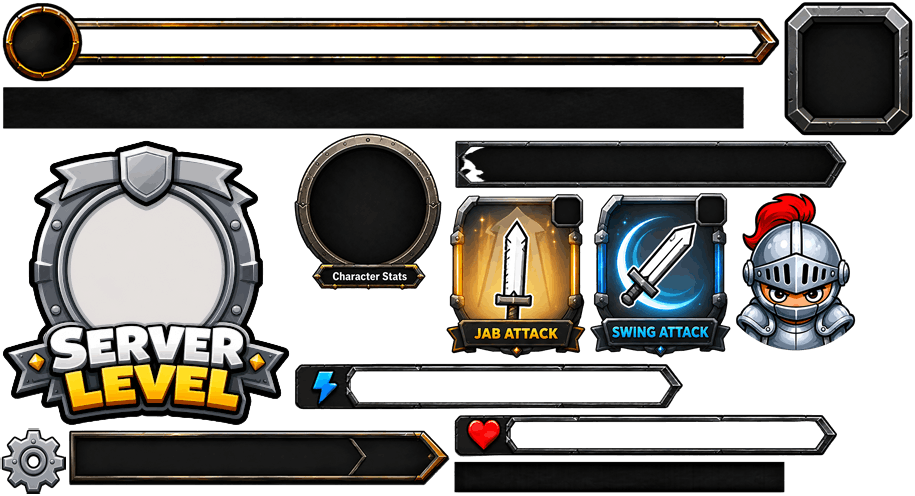
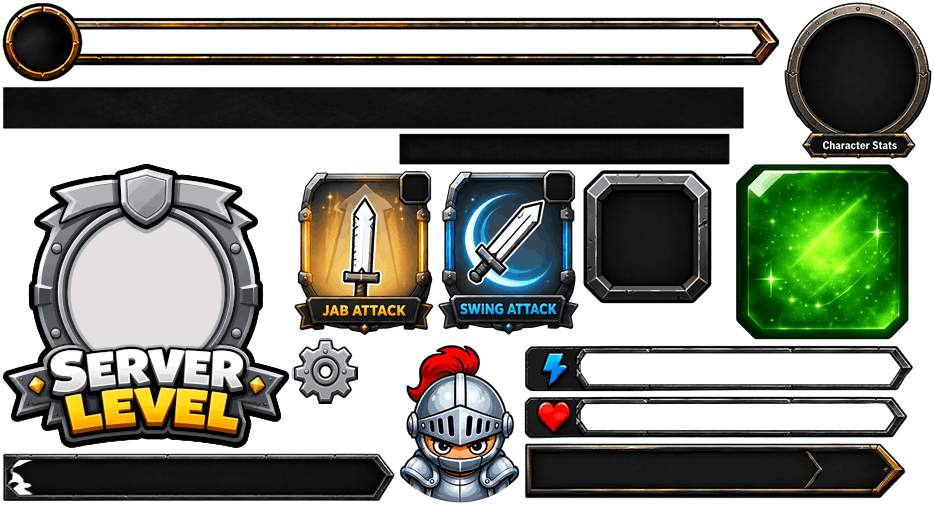
Visual polish: breathing pulse, idle sway, movement bob, head lean twist, aim smoothing
- #1: Subtle breathing pulse (1.5% scale oscillation at 3.5s period on knight head)
- #2: Gentle idle sway on sword and hand (rotational + positional sine offsets)
- #3: Movement-based bob (figure-8 path, amplitude scales with speed, fades at rest)
- #4: Direction-change head lean twist (character-local perpendicular pull on head rotation)
- #5: Visual aim smoothing (eased facing direction via client-owned visualAngle,
  instant realAngle for attacks/input)
- Perpendicular pull removed from aim, applied only as head rotation offset
- Fixed || vs ?? bug causing jitter when visualAngle crossed 0
- Removed obsolete phaseDisplay HTML/CSS/JS
- Breathing/sway/bob: purely visual, no gameplay impact

diff --git a/public/holdyourground/modules/render-entity.js b/public/holdyourground/modules/render-entity.js
@@ -2,8 +2,26 @@ import { state } from './state.js';
 
 const _spriteCache = new Map();
 
+let _leanRot = 0;
+
+function updateLean(p) {
+  if (!p) return;
+  const vx = p.x - p.px;
+  const vy = p.y - p.py;
+  const aim = p._smoothAngle ?? p.facingAngle ?? 0;
+  const localRight = -vx * Math.sin(aim) + vy * Math.cos(aim);
+  const targetLean = localRight * 0.04;
+  _leanRot += (targetLean - _leanRot) * 0.12;
+  if (Math.abs(_leanRot) < 0.0001) _leanRot = 0;
+}
+
 function smoothstep(t) {
   return t * t * (3 - 2 * t);
+}
+
+function getBreathScale(amp) {
+  const t = performance.now() / 3500 * Math.PI * 2;
+  return 1.0 + Math.sin(t) * (amp || 0.015);
 }
 
 function toPolar(x, y) {
@@ -32,6 +50,32 @@ function lerpPosePolar(from, to, t) {
   };
 }
 
+function getMovementBob(p) {
+  if (!p) return { x: 0, y: 0 };
+  const dx = p.x - p.px;
+  const dy = p.y - p.py;
+  const speed = Math.sqrt(dx * dx + dy * dy);
+  const t = performance.now() / 1000;
+  const freq = 1.2 + speed * 0.08;
+  const amp = Math.min(1.5, speed * 0.08);
+  return {
+    x: Math.cos(t * freq * Math.PI * 2) * amp * 0.4,
+    y: Math.sin(t * freq * Math.PI * 2) * amp * 0.6
+  };
+}
+
+function getIdleSway(handKey) {
+  const t = performance.now() / 1000;
+  const isSword = handKey === 'knight_sword';
+  const freq1 = isSword ? 0.35 : 0.4;
+  const freq2 = isSword ? 0.5 : 0.55;
+  return {
+    rotOffset: Math.sin(t * freq1 * Math.PI * 2) * (isSword ? 0.025 : 0.015),
+    xOffset: Math.sin(t * freq2 * Math.PI * 2) * (isSword ? 1.2 : 0.6),
+    yOffset: Math.sin(t * freq1 * Math.PI * 2 + 1.2) * (isSword ? 0.8 : 0.4)
+  };
+}
+
 function getKnightIdleVis(handKey) {
   if (state.idleTransition) {
     const elapsed = performance.now() - state.idleTransition.startTime;
@@ -41,10 +85,24 @@ function getKnightIdleVis(handKey) {
     const to = handKey === 'knight_sword' ? state.idleTransition.toSword : state.idleTransition.toHand;
     const vis = lerpPosePolar(from, to, t);
     if (t >= 1) state.idleTransition = null;
-    return vis;
+    const sway = getIdleSway(handKey);
+    return {
+      offsetX: vis.offsetX + sway.xOffset,
+      offsetY: vis.offsetY + sway.yOffset,
+      scale: vis.scale,
+      rotation: +(vis.rotation + sway.rotOffset).toFixed(2)
+    };
   }
   const style = state.attackStyle || 'jab';
-  return window.KNIGHT_VISUALS?.[style]?.[handKey];
+  const base = window.KNIGHT_VISUALS?.[style]?.[handKey];
+  if (!base) return null;
+  const sway = getIdleSway(handKey);
+  return {
+    offsetX: base.offsetX + sway.xOffset,
+    offsetY: base.offsetY + sway.yOffset,
+    scale: base.scale,
+    rotation: +(base.rotation + sway.rotOffset).toFixed(2)
+  };
 }
 
 function startIdleTransition(newStyle) {
@@ -412,10 +470,12 @@ export function drawKnightPreview(ctx, cw, ch) {
 export function drawPlayer(ctx, p, sx, sy, alpha, topKills) {
   const knightFrame = state.knightFrames?.['T1KnightHead.png']?.frame;
   const isKnight = !!knightFrame;
+  const bob = getMovementBob(p);
+  updateLean(p);
 
   if (knightFrame) {
-    drawKnightSword(ctx, p, sx, sy);
-    drawKnightHand(ctx, p, sx, sy);
+    drawKnightSword(ctx, p, sx + bob.x, sy + bob.y);
+    drawKnightHand(ctx, p, sx + bob.x, sy + bob.y);
   } else {
     drawSword(ctx, p, sx, sy);
   }
@@ -424,10 +484,11 @@ export function drawPlayer(ctx, p, sx, sy, alpha, topKills) {
   drawHealthBar(ctx, sx, sy - 36, 36, 4, p.health, p.maxHealth);
 
   if (knightFrame) {
-    const sz = 56 / Math.max(knightFrame.w, knightFrame.h);
+    const breath = getBreathScale(0.015);
+    const sz = (56 / Math.max(knightFrame.w, knightFrame.h)) * breath;
     ctx.save();
-    ctx.translate(sx, sy);
-    ctx.rotate((p._smoothAngle ?? p.facingAngle) - Math.PI / 2);
+    ctx.translate(sx + bob.x, sy + bob.y);
+    ctx.rotate((p._smoothAngle ?? p.facingAngle) - Math.PI / 2 + _leanRot);
     ctx.drawImage(getSpriteFromSheet(state.knightSheet, knightFrame.w * sz, knightFrame.h * sz, knightFrame), -(knightFrame.w * sz) / 2, -(knightFrame.h * sz) / 2, knightFrame.w * sz, knightFrame.h * sz);
     ctx.restore();
   } else {

diff --git a/public/hud-position-tool.html b/public/hud-position-tool.html
@@ -204,11 +204,13 @@ Promise.all([
     };
   });
   selectedIdx = items.length > 0 ? 0 : -1;
+  // Remove standalone Activated.png — we use JabHighlight/SwingHighlight instead
+  items = items.filter(i => i.name !== 'Activated.png');
   // Add virtual elements from layout that aren't in HUD frames
   for (const laid of layoutArr) {
     if (!hudFrames[laid.name] && !items.find(i => i.name === laid.name)) {
       items.push({
-        name: laid.name, x: laid.x, y: laid.y, w: 80, h: 30,
+        name: laid.name, x: laid.x, y: laid.y, w: laid.w || 80, h: laid.h || 30,
         zIndex: laid.zIndex, visible: true, scale: 1.0,
         textX: laid.textX, textY: laid.textY, textSize: laid.textSize, frame: null
       });
@@ -399,12 +401,36 @@ function render() {
     const idx = items.indexOf(item);
     const frame = item.frame;
     if (!frame || !hudSheet.complete) {
-      if (item.name !== 'StatsHotkey') continue;
+      if (item.name !== 'StatsHotkey' && item.name !== 'JabHighlight' && item.name !== 'SwingHighlight') continue;
     }
 
     ctx.save();
 
     const sw = item.w * item.scale, sh = item.h * item.scale;
+
+    // Attack style highlight (anchored to the matching attack icon)
+    if (item.name === 'JabHighlight' || item.name === 'SwingHighlight') {
+      const actFrame = hudFrames?.['Activated.png']?.frame;
+      const iconName = item.name === 'JabHighlight' ? 'JabAttack.png' : 'SwingAttack.png';
+      const icon = items.find(i => i.name === iconName);
+      if (actFrame && hudSheet.complete && icon && icon.frame) {
+        const fr = icon.frame.frame;
+        const sss = icon.frame.spriteSourceSize;
+        const dw = sss.w * icon.scale;
+        const dh = sss.h * icon.scale;
+        const r = 1024 - (icon.x + sss.x * icon.scale) - sss.w * icon.scale;
+        const b = 576 - (icon.y + sss.y * icon.scale) - sss.h * icon.scale;
+        const dx = 1024 - r - dw;
+        const dy = 576 - b - dh;
+        ctx.drawImage(hudSheet, actFrame.x, actFrame.y, actFrame.w, actFrame.h, dx, dy, dw, dh);
+      }
+      ctx.fillStyle = '#fff';
+      ctx.font = '9px monospace';
+      ctx.textAlign = 'left';
+      ctx.fillText(item.name, item.x, item.y + sh + 12);
+      ctx.restore();
+      continue;
+    }
 
     // Sprite and dynamic fill drawing (only for items with sprites)
     if (frame && hudSheet.complete) {

diff --git a/public/style.css b/public/style.css
@@ -687,34 +687,7 @@ button:active {
   text-shadow: 3px 3px 0 #050505;
 }
 
-#phaseDisplay {
-  position: absolute;
-  top: 12px;
-  left: 50%;
-  transform: translateX(-50%);
-  display: flex;
-  align-items: center;
-  gap: 10px;
-  padding: 6px 16px;
-  background: rgba(10, 10, 15, 0.8);
-  border: 1px solid rgba(255, 255, 255, 0.15);
-  border-radius: 8px;
-  z-index: 8;
-  pointer-events: none;
-}
 
-#phaseName {
-  font-size: 0.85rem;
-  font-weight: 600;
-  color: var(--accent);
-  text-transform: uppercase;
-  letter-spacing: 0.06em;
-}
-
-#phaseTimer {
-  font-size: 1.1rem;
-  font-weight: 700;
-  color: #fff;
   min-width: 36px;
   text-align: center;
 }

diff --git a/public/holdyourground/modules/render.js b/public/holdyourground/modules/render.js
@@ -87,13 +87,18 @@ function render() {
     const mex = me.px + (me.x - me.px) * alpha;
     const mey = me.py + (me.y - me.py) * alpha;
     const target = Math.atan2((state.mouseY / zoom + cam.y) - mey, (state.mouseX / zoom + cam.x) - mex);
+    me.realAngle = target;
+    me.visualAngle = me.visualAngle ?? me.facingAngle;
     if (state.localAnim) {
       const diff = target - state.localAnim.lockedAngle;
       const norm = Math.atan2(Math.sin(diff), Math.cos(diff));
-      me.facingAngle = state.localAnim.lockedAngle + Math.max(-5 * Math.PI / 180, Math.min(5 * Math.PI / 180, norm));
+      me.visualAngle = state.localAnim.lockedAngle + Math.max(-5 * Math.PI / 180, Math.min(5 * Math.PI / 180, norm));
     } else {
-      me.facingAngle = target;
+      const diff = target - me.visualAngle;
+      const norm = Math.atan2(Math.sin(diff), Math.cos(diff));
+      me.visualAngle += norm * 0.12;
     }
+    me._smoothAngle = me.visualAngle;
   }
 
   if (state.localAnim) {
@@ -218,7 +223,7 @@ export function startRender(socket) {
       const me = state.players[state.myId];
       if (me) {
         const zoom = state.cameraZoom;
-        input.angle = me.facingAngle || Math.atan2((state.mouseY / zoom + cam.y) - me.y, (state.mouseX / zoom + cam.x) - me.x);
+        input.angle = me.realAngle || Math.atan2((state.mouseY / zoom + cam.y) - me.y, (state.mouseX / zoom + cam.x) - me.x);
       }
       socket.emit('input', input);
     }

diff --git a/server/sword.js b/server/sword.js
@@ -44,8 +44,11 @@ function checkSwordHit(p, zombies, players, grid) {
   const bladeW = BLADE_W;
   const angle = (p.attacking && p.attackLockedAngle != null) ? p.attackLockedAngle : (p.facingAngle || 0);
 
-  // Swing only deals damage on the forward swing (first half)
-  const halfFrames = p.attackStyle === 'swing' ? Math.floor(totalFrames / 2) : totalFrames;
+  // Only deal damage on forward motion: sum segments up to the midpoint keyframe
+  const segs = p.attackAnim.segments;
+  const midKf = Math.floor(p.attackAnim.keyframes.length / 2);
+  let halfFrames = 0;
+  for (let i = 0; i < midKf; i++) halfFrames += segs[i];
 
   const cfs = [];
   if (p.prevCf >= 0 && p.prevCf !== currentCf) {
@@ -53,9 +56,9 @@ function checkSwordHit(p, zombies, players, grid) {
     const steps = Math.min(8, Math.ceil(span));
     for (let s = 1; s <= steps; s++) {
       const cf = p.prevCf + span * (s / steps);
-      if (cf < halfFrames) cfs.push(cf);
+      if (cf <= halfFrames + 1) cfs.push(cf);
     }
-  } else if (currentCf < halfFrames) {
+  } else if (currentCf <= halfFrames + 1) {
     cfs.push(currentCf);
   }
   p.prevCf = currentCf;

diff --git a/public/holdyourground/modules/net-events.js b/public/holdyourground/modules/net-events.js
@@ -559,7 +559,6 @@ export function registerEvents(socket) {
     if (phase === 'nighttime') state.waveStartTime = performance.now();
     state.currentWave = wave;
     if (activePlayers) state.isSpectator = !activePlayers.includes(state.myId);
-    document.getElementById('phaseDisplay').classList.add('hidden');
     document.getElementById('nwpTitle').textContent = phase === 'nighttime' ? 'THIS WAVE' : 'NEXT WAVE';
 
     if (phase === 'ended' && (state.screen === 'lobby' || state.screen === 'joining' || state.screen === 'results' || state.screen === 'playing')) {
@@ -598,7 +597,7 @@ export function registerEvents(socket) {
     } else if (phase === 'waiting' && (state.screen === 'lobby' || state.screen === 'joining' || state.screen === 'results')) {
       await ensureAssets();
       document.getElementById('loadingOverlay').classList.add('hidden');
-      ['eliminated', 'waitingRespawn', 'settingsPanel', 'phaseDisplay', 'hud', 'hotbarInventory'].forEach(id => document.getElementById(id).classList.add('hidden'));
+      ['eliminated', 'waitingRespawn', 'settingsPanel', 'hud', 'hotbarInventory'].forEach(id => document.getElementById(id).classList.add('hidden'));
       document.getElementById('lobbyScreen').classList.remove('hidden');
       document.getElementById('lobbyStartBtn').classList.toggle('hidden', !!state.isSpectator);
       document.getElementById('resultsOverlay').classList.add('hidden');
@@ -668,7 +667,7 @@ export function registerEvents(socket) {
     state.matchPhase = 'ended'; state.isDeadSpectating = false;
     document.getElementById('loadingOverlay').classList.add('hidden');
     document.getElementById('resultsOverlay').classList.remove('hidden');
-    ['phaseDisplay', 'waitingRespawn'].forEach(id => document.getElementById(id).classList.add('hidden'));
+    ['waitingRespawn'].forEach(id => document.getElementById(id).classList.add('hidden'));
     ['menu', 'eliminated'].forEach(id => document.getElementById(id).classList.add('hidden'));
     document.getElementById('joinGameBtn').classList.add('hidden');
     ['hud', 'hotbarInventory', 'settingsBtn', 'settingsPanel'].forEach(id => document.getElementById(id).classList.add('hidden'));
@@ -688,7 +687,6 @@ export function registerEvents(socket) {
     document.getElementById('loadingOverlay').classList.add('hidden');
     state.matchPhase = 'waiting'; state.phaseTimer = 0; state.phaseTimerStart = 0; state.phaseStartedAt = 0;
     state.currentWave = 0; state.screen = 'lobby';
-    document.getElementById('phaseDisplay').classList.add('hidden');
     ['resultsOverlay', 'waitingRespawn', 'eliminated'].forEach(id => document.getElementById(id).classList.add('hidden'));
     document.getElementById('lobbyTimer').classList.add('hidden');
     document.getElementById('lobbyQueueInfo').classList.add('hidden');

diff --git a/public/holdyourground/index.html b/public/holdyourground/index.html
@@ -173,11 +173,6 @@
       <button id="waitingLobbyBtn" class="lobby-btn">Return to Lobby</button>
     </div>
 
-    <div id="phaseDisplay" class="hidden">
-      <span id="phaseName"></span>
-      <span id="phaseTimer"></span>
-    </div>
-
     <div id="hud" class="hud hidden">
       <div class="lb-title">Players</div>
       <div id="lbEntries"></div>

diff --git a/public/holdyourground/game.js b/public/holdyourground/game.js
@@ -321,7 +321,7 @@ function clearCanvas() {
 }
 
 function logScreenState(tag) {
-  const ids = ['menu','lobbyScreen','resultsOverlay','eliminated','loadingOverlay','settingsBtn','settingsPanel','hud','hotbarInventory','phaseDisplay','waitingRespawn','joinGameBtn','escapeMenu','canvas'];
+  const ids = ['menu','lobbyScreen','resultsOverlay','eliminated','loadingOverlay','settingsBtn','settingsPanel','hud','hotbarInventory','waitingRespawn','joinGameBtn','escapeMenu','canvas'];
   let out = '[SCREEN-' + tag + '] scr=' + state.screen + ' ph=' + state.matchPhase + ' jE=' + state._joinedEnded;
   for (const id of ids) {
     const el = document.getElementById(id);
@@ -340,7 +340,6 @@ function leaveToMenu() {
   lobbyScreen.classList.add('hidden');
   document.getElementById('resultsOverlay').classList.add('hidden');
   document.getElementById('loadingOverlay').classList.add('hidden');
-  document.getElementById('phaseDisplay').classList.add('hidden');
   document.getElementById('joinGameBtn').classList.add('hidden');
   hotbarEl.classList.add('hidden');
   settingsPanel.classList.add('hidden');

diff --git a/public/holdyourground/modules/input.js b/public/holdyourground/modules/input.js
@@ -125,7 +125,7 @@ export function setupInput(socket, canvas) {
 
   canvas.addEventListener('mousedown', (e) => {
     if (e.button === 0 && state.screen === 'playing') {
-      socket.emit('attack', { facingAngle: state.players[state.myId]?.facingAngle || 0 });
+      socket.emit('attack', { facingAngle: state.players[state.myId]?.realAngle || state.players[state.myId]?.facingAngle || 0 });
     }
   });
 